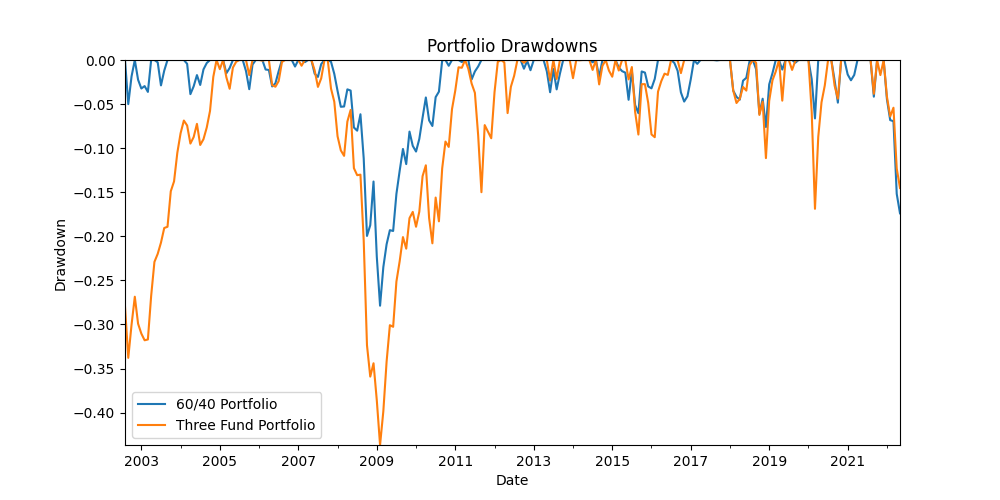
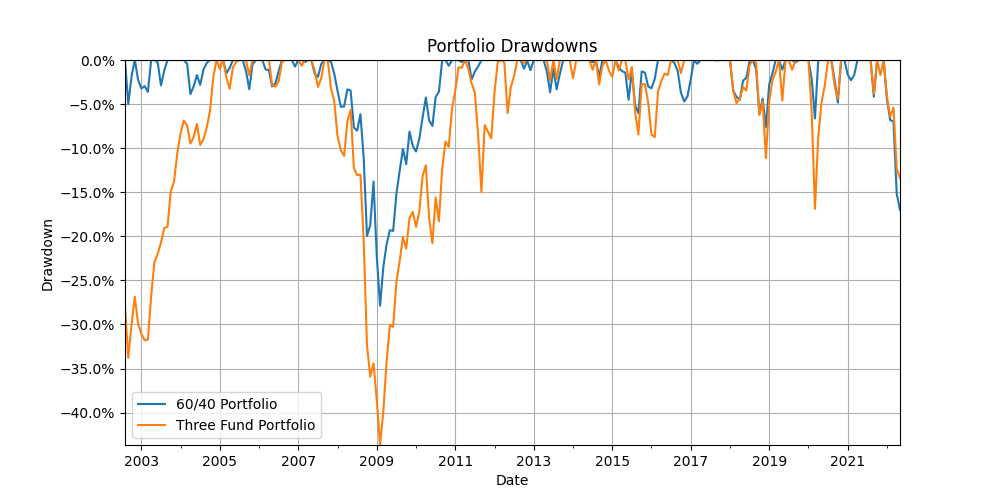
add functionality to generate and graph rolling returns of backtests

diff --git a/testfolio/visualize.py b/testfolio/visualize.py
@@ -11,7 +11,7 @@ def graph_return(*backtests,
                  path=None):
     """ Graphs the cumulative return of any number of backtests.
 
-    Retrieves the total portfolio value of each backtest over time and graphs it. The latest start date
+    X-axis corresponds to the date. Y-axis corresponds to the cumulative return on that date. The latest start date
     encompassing the entirety of every backtest will be used, and the graphed return is relative to that start date.
 
     Args:
@@ -42,14 +42,17 @@ def graph_return(*backtests,
     if logarithmic:
         plt.yscale('log', subs=[2, 4, 6, 8])
         if not start_val:
-            ax.yaxis.set_major_formatter(ticker.StrMethodFormatter('{x:.2f}'))
-            ax.yaxis.set_minor_formatter(ticker.StrMethodFormatter('{x:.2f}'))
+            ax.yaxis.set_major_formatter(ticker.PercentFormatter(xmax=1.0))
+            ax.yaxis.set_minor_formatter(ticker.PercentFormatter(xmax=1.0))
 
     if start_val:
         ax.yaxis.set_major_formatter(ticker.StrMethodFormatter('${x:,.0f}'))
         ax.yaxis.set_minor_formatter(ticker.StrMethodFormatter('${x:,.0f}'))
+        ax.hlines(y=start_val, xmin=df.index[0], xmax=df.index[-1], color='k', zorder=0)
         ax.set_ylabel('Value')
     else:
+        ax.yaxis.set_major_formatter(ticker.PercentFormatter(xmax=1.0))
+        ax.hlines(y=1, xmin=df.index[0], xmax=df.index[-1], color='k', zorder=0)
         ax.set_ylabel('Return')
 
     ax.margins(x=0)
@@ -62,13 +65,14 @@ def graph_return(*backtests,
     plt.close()
 
 
-def graph_drawdown(*backtests, path=None):
+def graph_drawdown(*backtests,
+                   path=None):
     """ Graphs the drawdowns of any number of backtests.
 
-    Retrieves the drawdowns of each backtest over time and graphs it. The latest start date encompassing the entirety of
-    every backtest will be used. Note that if a backtest is truncated in order to encompass all backtests, the drawdowns
-    near the beginning may be relative to a maximum before the start date rather than the actual start value. To avoid
-    this, have all Backtest objects start at the same date.
+    X-axis corresponds to the date. Y-axis corresponds to the drawdown of that date. The latest start date
+    encompassing the entirety of every backtest will be used. Note that if a backtest is truncated in order to
+    encompass all backtests, the drawdowns near the beginning may be relative to a maximum before the start date
+    rather than the actual start value. To avoid this, have all Backtest objects start at the same date.
 
     Args:
         *backtests: Any number of Backtest objects to be graphed.
@@ -86,7 +90,11 @@ def graph_drawdown(*backtests, path=None):
     df = df.dropna()
 
     ax = df.plot(figsize=(10, 5), kind='line')
+    ax.grid(axis='y', which='major')
+    ax.grid(axis='x', which='major')
+
     ax.set_ylabel("Drawdown")
+    ax.yaxis.set_major_formatter(ticker.PercentFormatter(xmax=1.0))
     ax.margins(x=0, y=0)
     ax.set_title("Portfolio Drawdowns")
 
@@ -97,4 +105,41 @@ def graph_drawdown(*backtests, path=None):
     plt.close()
 
 
+def graph_rolling_returns(*backtests,
+                          interval=12,
+                          path=None):
+    """ Graphs the annualized rolling returns of any number of backtests over a given interval length.
 
+    X-axis corresponds to the interval ending on that date. Y-axis is the annualized return of that interval. The
+    latest start date encompassing the entirety of every backtest will be used.
+
+    Args:
+        *backtests: Any number of Backtest objects to be graphed.
+        interval: Number of months for each interval. Must be shorter than the duration of the backtests themselves.
+        path: File path to save the graph as a picture in the working directory. Defaults to None for interactive mode.
+    """
+
+    data = []
+    headers = []
+
+    for backtest in backtests:
+        data.append(backtest.get_rolling_returns(interval))
+        headers.append(backtest.name)
+
+    df = pd.concat(data, axis=1, keys=headers)
+    df = df.dropna()
+
+    ax = df.plot(figsize=(10, 5), kind='line')
+    ax.grid(axis='y', which='major')
+    ax.grid(axis='x', which='major')
+    ax.hlines(y=0, xmin=df.index[0], xmax=df.index[-1], color='k', zorder=0)
+
+    ax.set_ylabel('Annualized Return')
+    ax.yaxis.set_major_formatter(ticker.PercentFormatter(xmax=1.0))
+    ax.set_title(f'Annualized Rolling Returns of {interval} Month Intervals')
+
+    if path:
+        plt.savefig(path)
+    else:
+        plt.show()
+    plt.close()

diff --git a/testfolio/backtest.py b/testfolio/backtest.py
@@ -176,6 +176,29 @@ class Backtest(object):
         df = pd.concat([portfolio_return, market_history], axis=1)
         self.correlation = df.corr().iloc[1][0]
 
+    def get_rolling_returns(self, interval):
+        """Gets the annualized rolling returns of the backtest over a given interval length.
+
+        Args:
+            interval: Number of months for each interval. Must be shorter than the duration of the backtest itself.
+        Returns:
+            A pandas.Series object containing the annualized rolling returns of every possible interval. The index value for
+            each value corresponds to the end date of the interval it represents.
+        """
+
+        if interval >= len(self.hist.index):
+            raise ValueError('Interval must be shorter than the duration of the backtest.')
+        if interval <= 0:
+            raise ValueError('Interval must be at least 1 month long.')
+
+        returns = []
+
+        for i in range(interval, len(self.hist.index)):
+            start_date = self.hist.index[i - interval].strftime('%Y-%m-%d')
+            end_date = self.hist.index[i].strftime('%Y-%m-%d')
+            returns.append(_cagr(self.hist.iloc[i-interval]['Total'], self.hist.iloc[i]['Total'], start_date, end_date))
+
+        return pd.Series(data=returns, index=self.hist.index[interval:])
 
     def __str__(self):
         return (

diff --git a/example/test.py b/example/test.py
@@ -17,4 +17,4 @@ allocation_2 = {
 backtest_2 = tsf.Backtest(allocation_2, rebalance='q', name='Three Fund Portfolio')
 tsf.graph_return(backtest_1, backtest_2, start_val=1000, logarithmic=True, path='returns.png')
 tsf.graph_drawdown(backtest_1, backtest_2, path='drawdowns.png')
-
+tsf.graph_rolling_returns(backtest_1, backtest_2, interval=24, path='rolling_returns.png')

diff --git a/README.md b/README.md
@@ -102,7 +102,7 @@ ALIAS_TO_TICKER = {
     'US Mid Cap': 'VMCIX'
 }
 ```
-In addition to the attributes set during creation, Backtest objects have the following attributes:
+In addition to the attributes set during creation, Backtest objects have the following attributes and functions:
 ```python
 backtest = Backtest(allocation)
 
@@ -127,6 +127,9 @@ backtest.sortino
 
 # Pearson correlation coefficient with the S&P 500
 backtest.correlation
+
+# Returns a pandas.Series object containing rolling returns of the specified interval (e.g. 1 year)
+backtest.get_rolling_returns(12)
 ```
 
 
@@ -142,9 +145,11 @@ allocation_2 = {
 backtest_2 = tsf.Backtest(allocation_2, rebalance='q', name='Three Fund Portfolio')
 tsf.graph_return(backtest_1, backtest_2, start_val=1000, logarithmic=True, path='returns.png')
 tsf.graph_drawdown(backtest_1, backtest_2, path='drawdowns.png')
+tsf.graph_rolling_returns(backtest_1, backtest_2, interval=24, path='rolling_returns.png')
 ```
 
 #### Output
 ![returns](https://github.com/BradleyHe/testfolio/raw/main/example/returns.png)
 ![drawdowns](https://github.com/BradleyHe/testfolio/raw/main/example/drawdowns.png)
+![rolling_returns](https://github.com/BradleyHe/testfolio/raw/main/example/rolling_returns.png)
 
